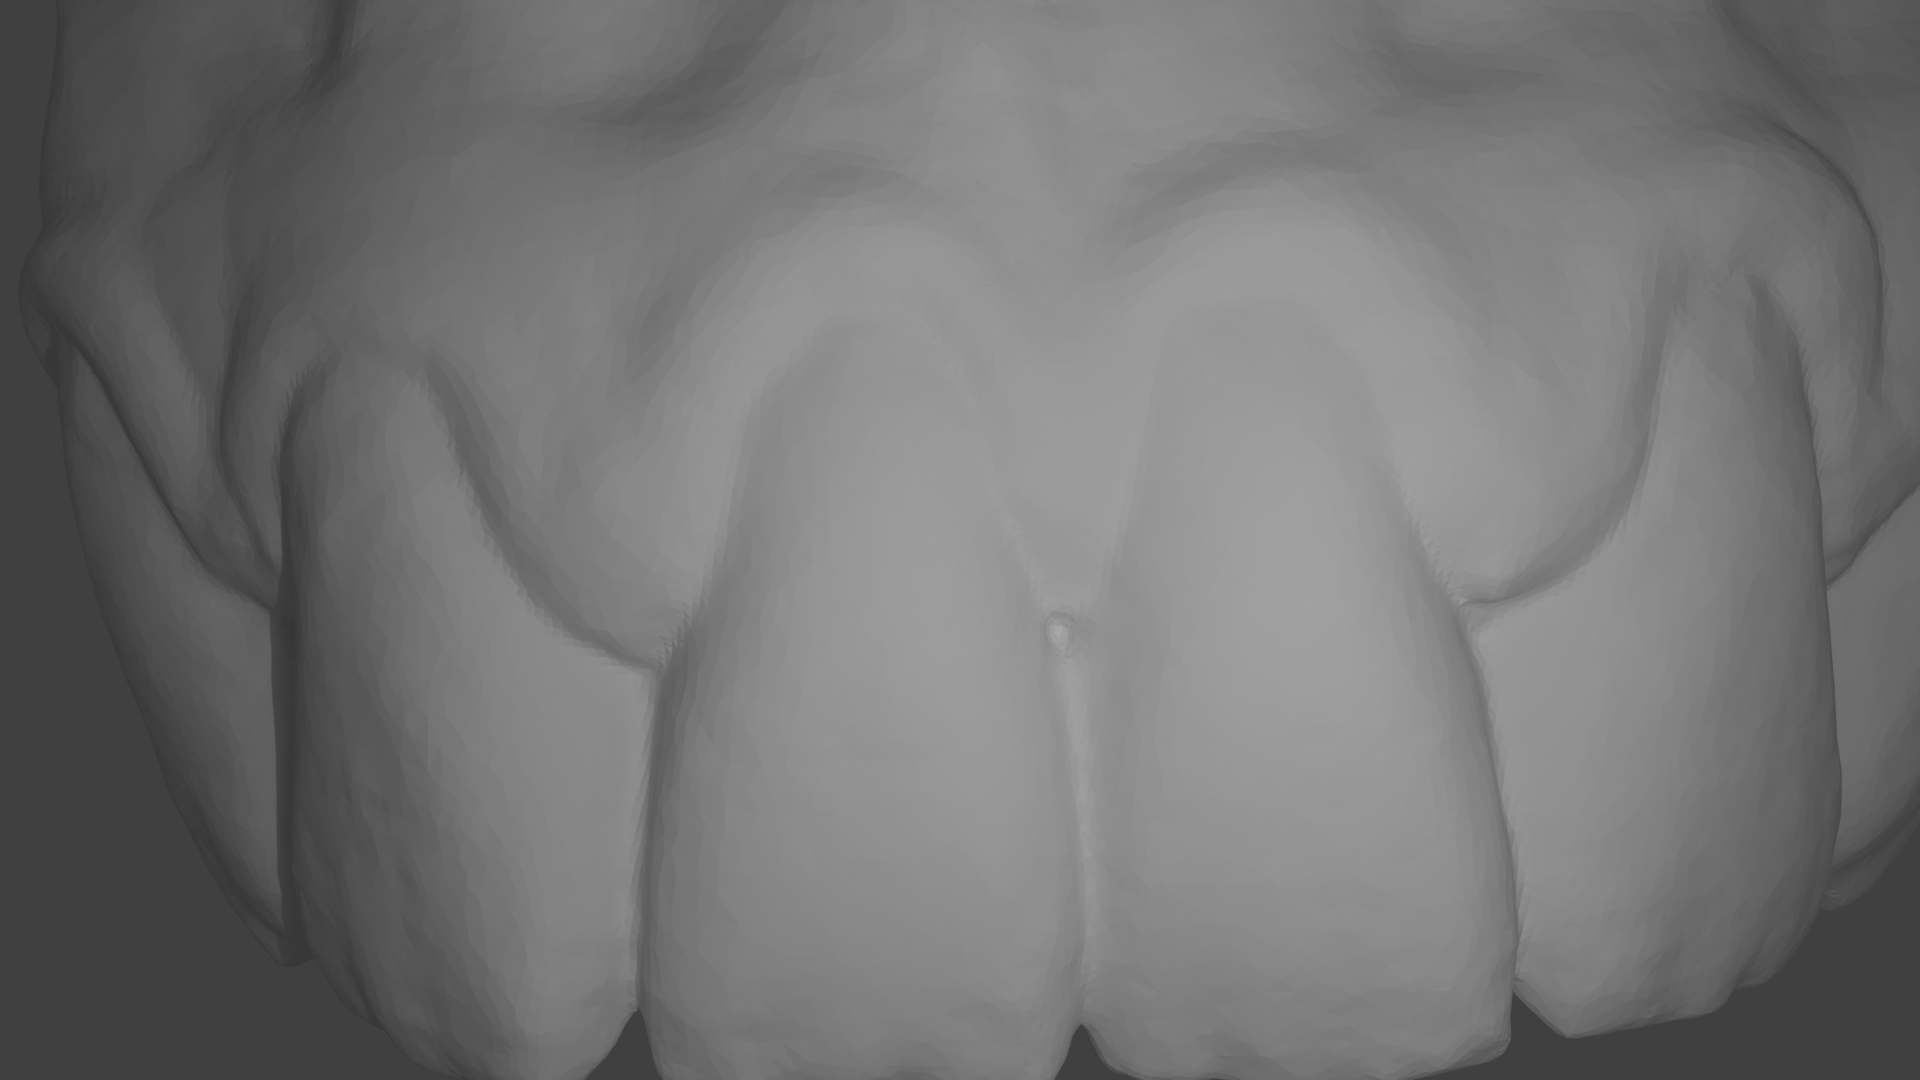
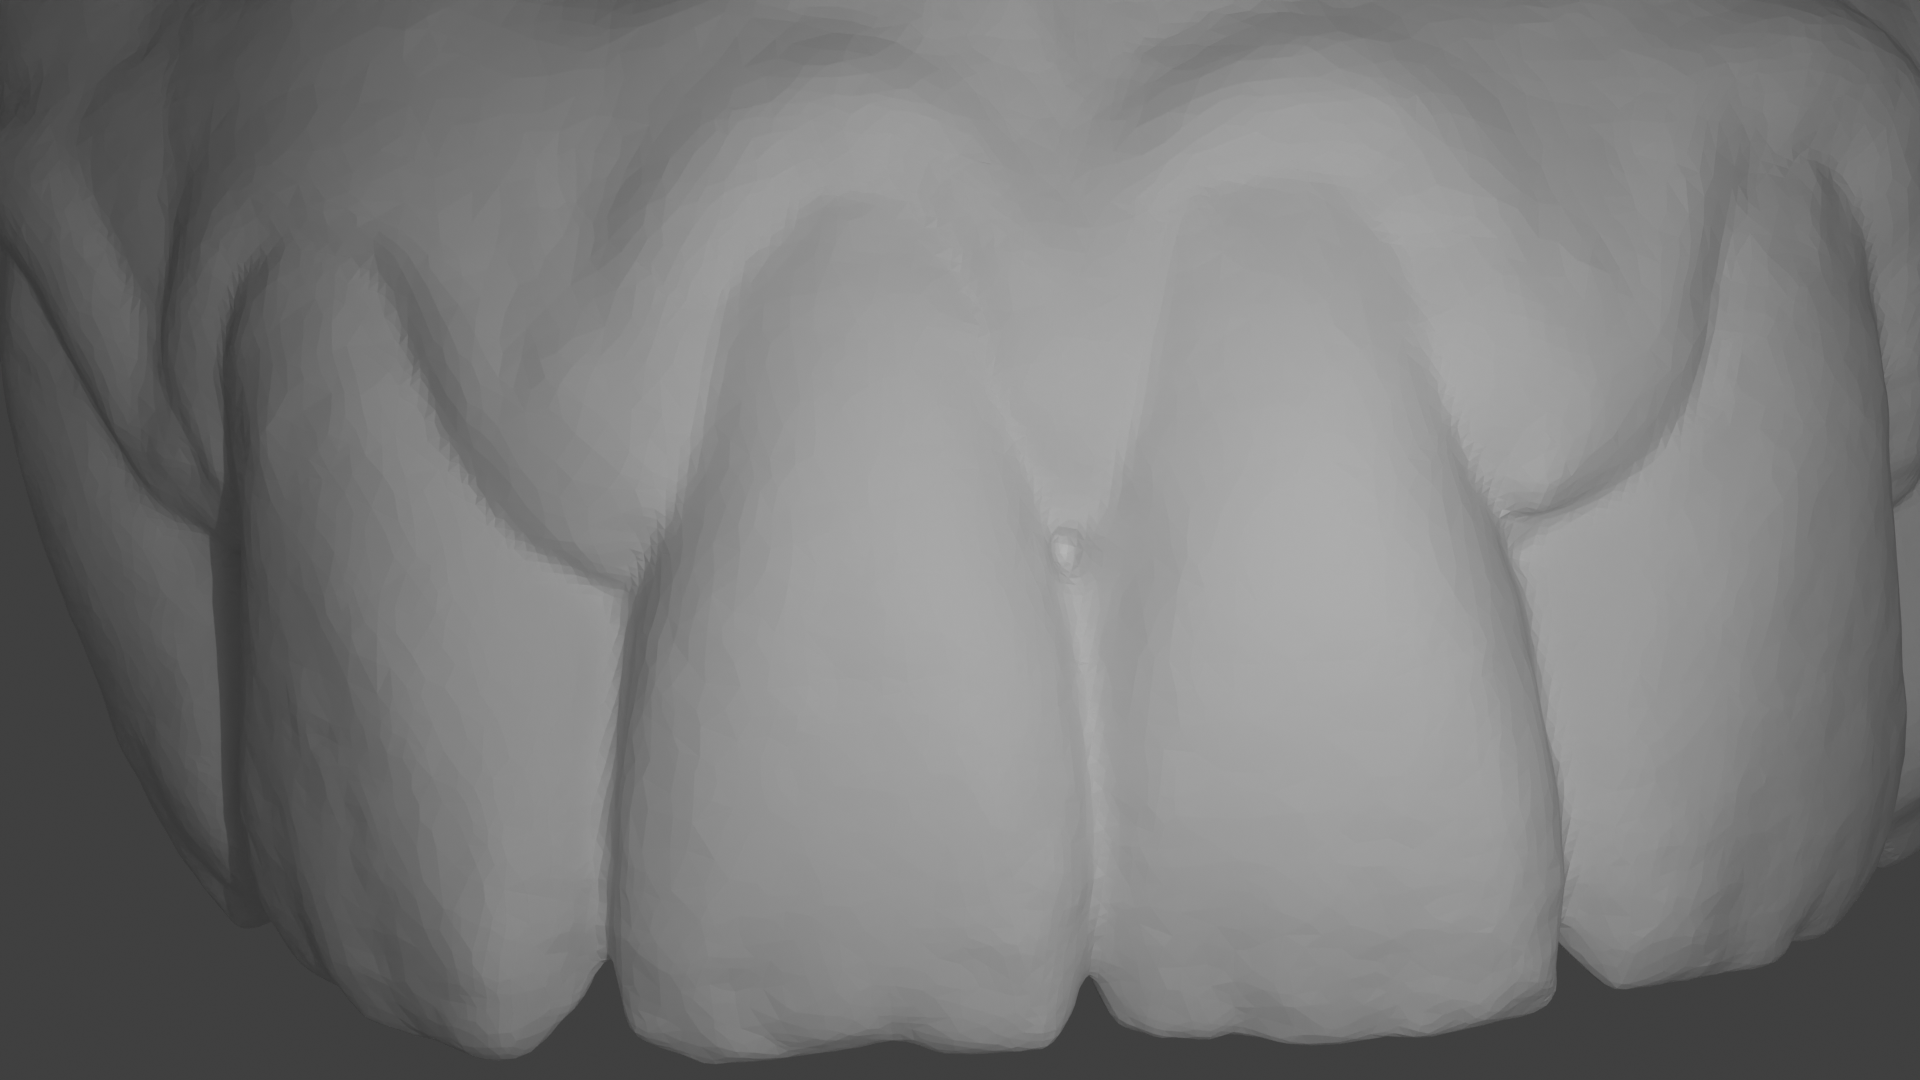
vor poetry änderungen

diff --git a/src/ur5e_bullet/__init__.py b/src/ur5e_bullet/__init__.py
@@ -27,6 +27,10 @@ VIEW_STICK_RADIUS = _cfg_mod.VIEW_STICK_RADIUS
 VIEW_STICK_COLOR = _cfg_mod.VIEW_STICK_COLOR
 LOOK_TARGET_RADIUS = _cfg_mod.LOOK_TARGET_RADIUS
 LOOK_TARGET_COLOR = _cfg_mod.LOOK_TARGET_COLOR
+PB_CAMERA_DISTANCE = _cfg_mod.PB_CAMERA_DISTANCE
+PB_CAMERA_YAW = _cfg_mod.PB_CAMERA_YAW
+PB_CAMERA_PITCH = _cfg_mod.PB_CAMERA_PITCH
+PB_CAMERA_TARGET_POS = _cfg_mod.PB_CAMERA_TARGET_POS
 
 
 def _draw_crosshair(pos, color, items, label=None):
@@ -270,6 +274,22 @@ def demo_simulation():
         if target is not None:
             look_target_body_id = _draw_look_target_body(target)
 
+    def _set_view(cfg):
+        """Setzt die pybullet-Orbit-Kamera auf die Startposition/den Startwinkel
+        der Startposition (cfg['view']). Fehlt 'view' oder 'apply' ist False,
+        wird die Kamera nicht beruehrt (Global aus sim.py gilt dann)."""
+        v = cfg.get("view")
+        if not v or not v.get("apply", True):
+            return
+        pybullet.configureDebugVisualizer(pybullet.COV_ENABLE_RENDERING, 0)
+        pybullet.resetDebugVisualizerCamera(
+            v.get("distance", PB_CAMERA_DISTANCE),
+            v.get("yaw", PB_CAMERA_YAW),
+            v.get("pitch", PB_CAMERA_PITCH),
+            list(v.get("target", PB_CAMERA_TARGET_POS)),
+        )
+        pybullet.configureDebugVisualizer(pybullet.COV_ENABLE_RENDERING, 1)
+
     def reset_overlay():
         """Entfernt ALLE Debug-Items (auch verwaiste "Geister") via
         removeAllUserDebugItems und zeichnet das TCP-Crosshair neu.
@@ -345,6 +365,7 @@ def demo_simulation():
             print(f"  Boot: Startposition erreicht (Gebiss nicht geladen)")
         else:
             print("  Boot: Startposition nicht erreichbar – Arm bleibt an Neutralposition")
+        _set_view(cfg)
 
     print("── UR5e Demo ──────────────────────────────")
     print("Move:        'm x y z [rx ry rz]' (RRT, Default-Orientierung 0 0 0)")
@@ -466,6 +487,7 @@ def demo_simulation():
             print(f"  Waypoints: {len(wps)}")
             for i, wp in enumerate(wps):
                 print(f"    {i+1}: {wp.get('name') or wp.get('label', str(i+1))} ({wp['tcp_pos'][0]:.3f}, {wp['tcp_pos'][1]:.3f}, {wp['tcp_pos'][2]:.3f})")
+            _set_view(cfg)
             reset_overlay()
             draw_waypoints()
             continue

diff --git a/config.py b/config.py
@@ -92,6 +92,14 @@ WAYPOINT_MARKER_RADIUS = 0.001
 # sodass er wie ein Sucher der Kamera durch die Kamera blickt und der Bewegung folgt.
 ATTACH_VIEWPORT_TO_CAMERA = True
 
+# ── Pybullet-View (GUI-Kamera: Startposition + Startwinkel) ──
+# Setzt die pybullet-Orbit-Kamera beim Start. "Startposition" = cameraTargetPosition
+# (worauf geschaut wird) + cameraDistance; "Startwinkel" = yaw + pitch.
+PB_CAMERA_DISTANCE   = 1.0
+PB_CAMERA_YAW        = 70.0
+PB_CAMERA_PITCH      = -25.0
+PB_CAMERA_TARGET_POS = [0.6, 0.0, 0.4]
+
 # ── Debug: Sichtachse (Stab vom TCP) ──
 # Zeichnet einen kollisionsfreien Stab vom TCP aus in Richtung der Kamera-
 # Blickachse (Kandidat: TCP-lokales -Z), um die TCP->Kamera-Orientierung
@@ -147,6 +155,7 @@ START_POSITIONS = {
         "ori_anchors": {"start": [90, 0, 0], "mid": [180, 90, 0], "end": [-90, 0, 0]},
         "look_at_jaw": True,
         "look_target": [0.662, 0.0],
+        "view": {"apply": True, "distance": 0.1, "yaw": 90.0, "pitch": -89.0, "target": [0.65, 0.0, 0.3]},
     },
     "aussen2low": {
         "tcp_pos":  [0.619, 0, 0.297],
@@ -164,6 +173,7 @@ START_POSITIONS = {
         "ori_anchors": {"start": [90, 0, 0], "mid": [180, 90, 0], "end": [-90, 0, 0]},
         "look_at_jaw": True,
         "look_target": [0.662, 0.0],
+        "view": {"apply": True, "distance": 1.0, "yaw": 90.0, "pitch": -25.0, "target": [0.66, 0.0, 0.35]},
     },
     "aussen2": {
         "tcp_pos":  [0.615, 0, 0.295],
@@ -180,6 +190,7 @@ START_POSITIONS = {
         "ori_anchors": {"start": [90, 0, 0], "mid": [180, 90, 0], "end": [-90, 0, 0]},
         "look_at_jaw": True,
         "look_target": [0.65, 0.0],
+        "view": {"apply": True, "distance": 1.0, "yaw": 90.0, "pitch": -25.0, "target": [0.65, 0.0, 0.35]},
     },
     "oben": {
         "tcp_pos":  [0.8265, 0.0, 0.31],
@@ -194,6 +205,7 @@ START_POSITIONS = {
         "ori_anchors": {"start": [0 , 0, 0], "mid": [0, 0, 0], "end": [0, 0, 0]},
         "look_at_jaw": False,
         "look_target": [0.65, 0.0],
+        "view": {"apply": True, "distance": 1.0, "yaw": 0.0, "pitch": -25.0, "target": [0.85, 0.0, 0.35]},
     },
     "innen": {
         "tcp_pos":  [0.78, -0.05, 0.29],

diff --git a/src/ur5e_bullet/sim.py b/src/ur5e_bullet/sim.py
@@ -37,6 +37,10 @@ RRT_SEED = _cfg_mod.RRT_SEED
 JOINT_LOWER_LIMITS = [math.radians(j["lower_deg"]) for j in _cfg_mod.JOINTS]
 JOINT_UPPER_LIMITS = [math.radians(j["upper_deg"]) for j in _cfg_mod.JOINTS]
 JOINT_REST_POSES = [math.radians(j["rest_deg"]) for j in _cfg_mod.JOINTS]
+PB_CAMERA_DISTANCE = _cfg_mod.PB_CAMERA_DISTANCE
+PB_CAMERA_YAW = _cfg_mod.PB_CAMERA_YAW
+PB_CAMERA_PITCH = _cfg_mod.PB_CAMERA_PITCH
+PB_CAMERA_TARGET_POS = _cfg_mod.PB_CAMERA_TARGET_POS
 
 
 class UR5Sim():
@@ -45,6 +49,10 @@ class UR5Sim():
         pybullet.connect(pybullet.GUI if gui else pybullet.DIRECT)
         pybullet.configureDebugVisualizer(pybullet.COV_ENABLE_GUI, 0)
         pybullet.setRealTimeSimulation(True)
+        pybullet.configureDebugVisualizer(pybullet.COV_ENABLE_RENDERING, 0)
+        pybullet.resetDebugVisualizerCamera(
+            PB_CAMERA_DISTANCE, PB_CAMERA_YAW, PB_CAMERA_PITCH, PB_CAMERA_TARGET_POS)
+        pybullet.configureDebugVisualizer(pybullet.COV_ENABLE_RENDERING, 1)
 
         self.end_effector_index = 7
         self.ur5 = self.load_robot()
